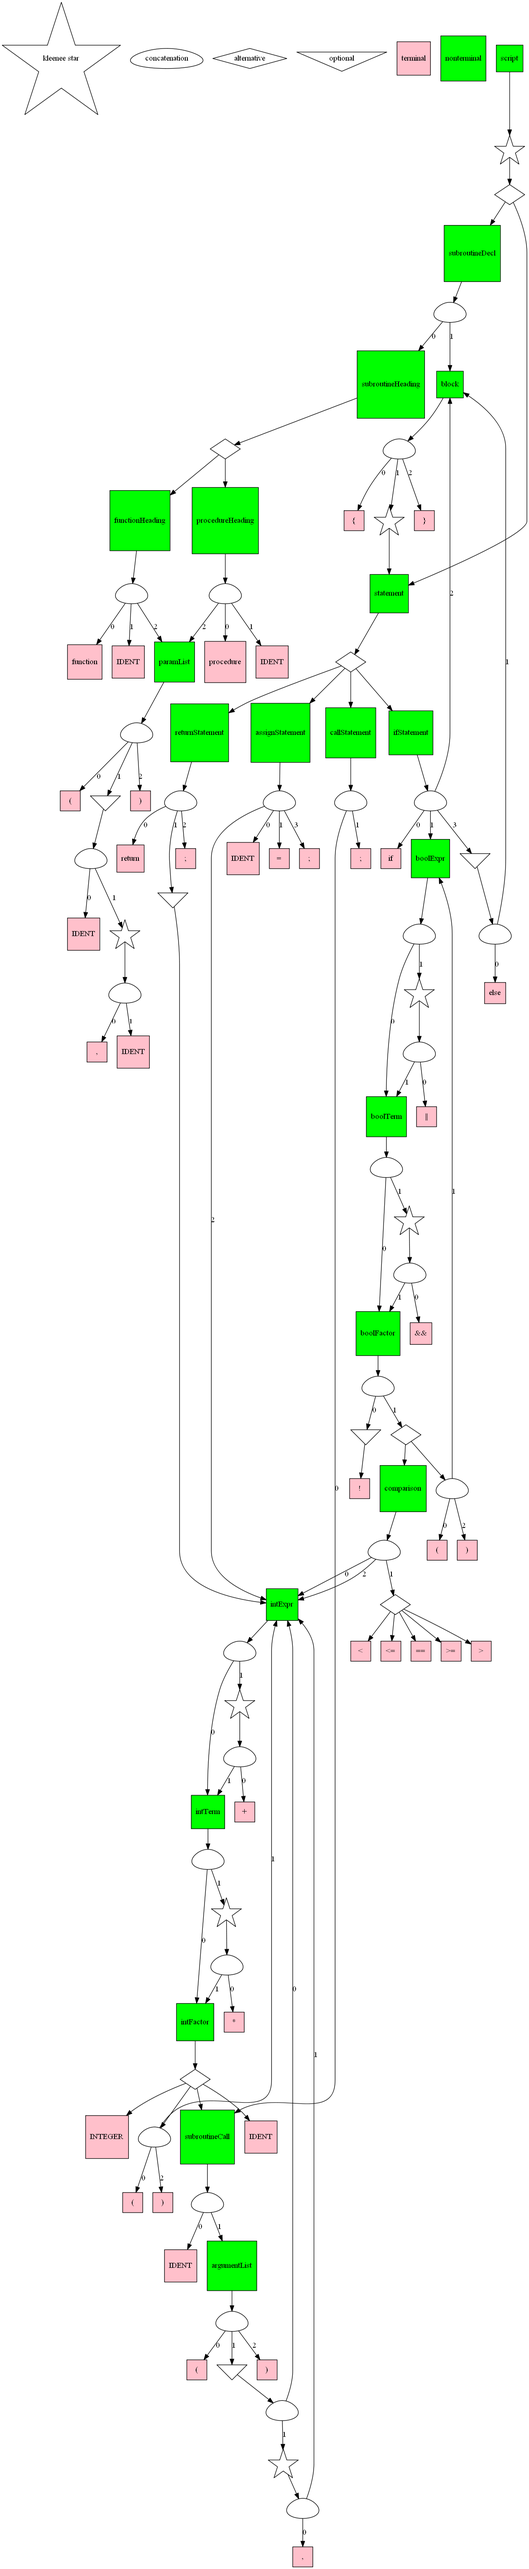
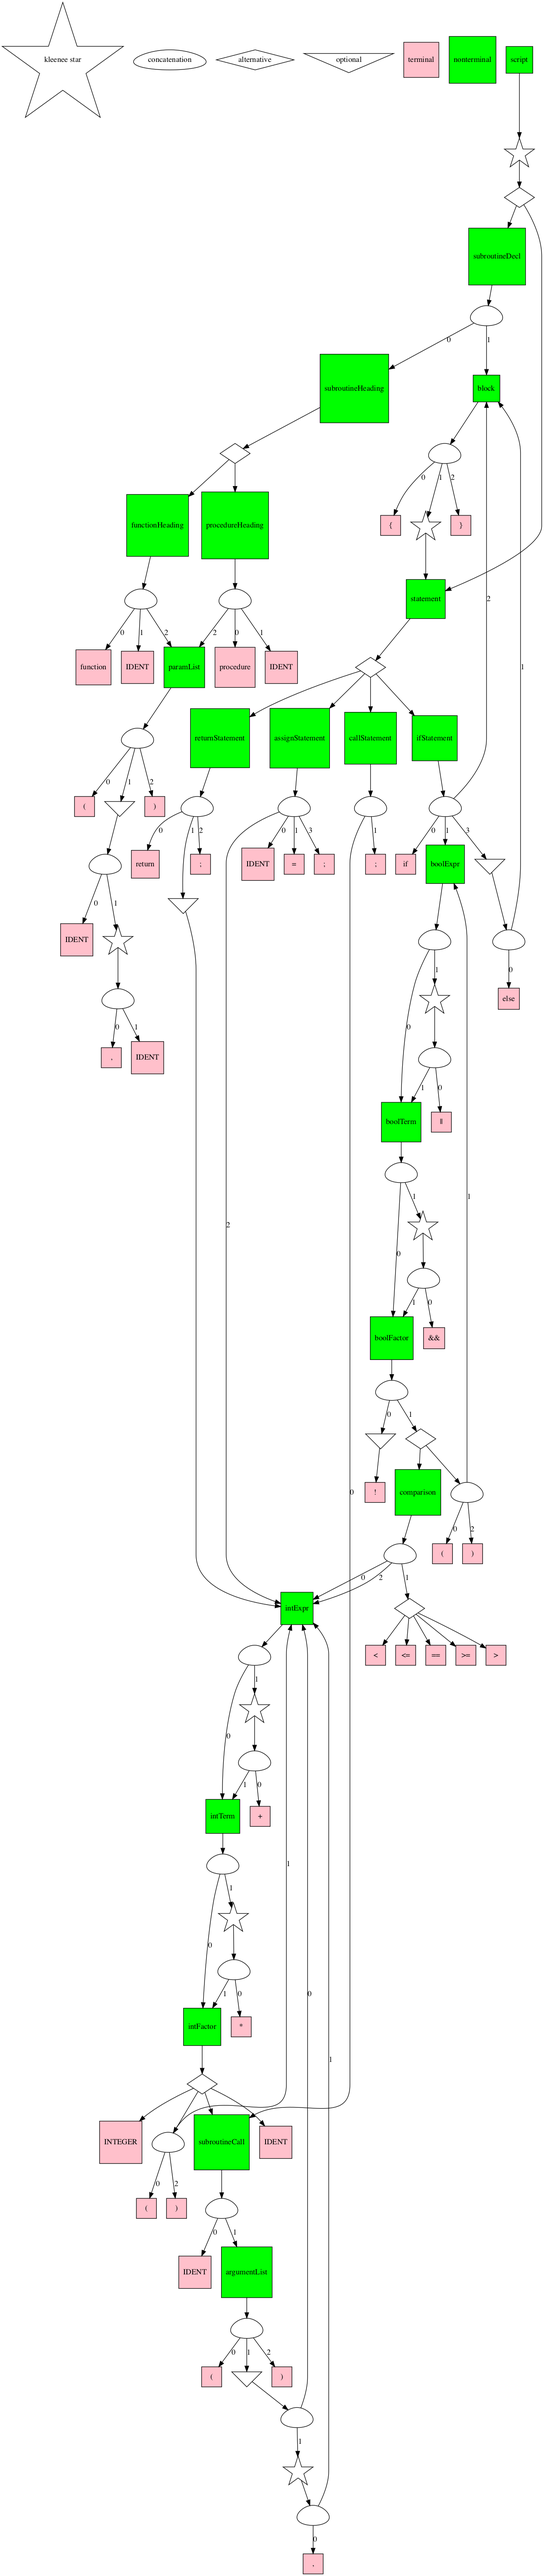
minor grammar fixes

diff --git a/grammar/mathscript_grammar.py b/grammar/mathscript_grammar.py
@@ -2,26 +2,29 @@ from grammar.grammar_nodes import *
 
 FUNCTION = Literal("function")
 PROCEDURE = Literal("procedure")
+RETURN = Literal("return")
+IF = Literal("if")
+ELSE = Literal("else")
+
+LEQ = Literal("<=")
+GEQ = Literal(">=")
+EQUALS = Literal("==")
+
 OPEN_BRACKET = Literal("(")
 CLOSE_BRACKET = Literal(")")
 OPEN_CURLY_BRACKET = Literal("{")
 CLOSE_CURLY_BRACKET = Literal("}")
 COMMA = Literal(",")
 SEMICOLON = Literal(";")
-RETURN = Literal("return")
 ASSIGN = Literal("=")
-IF = Literal("if")
-ELSE = Literal("else")
 PLUS = Literal("+")
-MULT = Literal("*")
-OR = Literal("||")
-AND = Literal("&&")
+MINUS = Literal("-")
+MUL = Literal("*")
+OR = Literal("|")
+AND = Literal("&")
 NOT = Literal("!")
 LESS = Literal("<")
 GREATER = Literal(">")
-LEQ = Literal("<=")
-GEQ = Literal(">=")
-EQUALS = Literal("==")
 
 IDENT = NamedTerminal("IDENT")
 INTEGER = NamedTerminal("INTEGER")
@@ -62,8 +65,8 @@ assignStatement.rule = Concat([IDENT, ASSIGN, intExpr, SEMICOLON])
 callStatement.rule = Concat([subroutineCall, SEMICOLON])
 ifStatement.rule = Concat([IF, boolExpr, block, Question(Concat([ELSE, block]))])
 subroutineCall.rule = Concat([IDENT, argumentList])
-intExpr.rule = Concat([intTerm, Star(Concat([PLUS, intTerm]))])
-intTerm.rule = Concat([intFactor, Star(Concat([MULT, intFactor]))])
+intExpr.rule = Concat([intTerm, Star(Concat([Or([PLUS, MINUS]), intTerm]))])
+intTerm.rule = Concat([intFactor, Star(Concat([MUL, intFactor]))])
 intFactor.rule = Or([INTEGER, Concat([OPEN_BRACKET, intExpr, CLOSE_BRACKET]), subroutineCall, IDENT])
 boolExpr.rule = Concat([boolTerm, Star(Concat([OR, boolTerm]))])
 boolTerm.rule = Concat([boolFactor, Star(Concat([AND, boolFactor]))])
